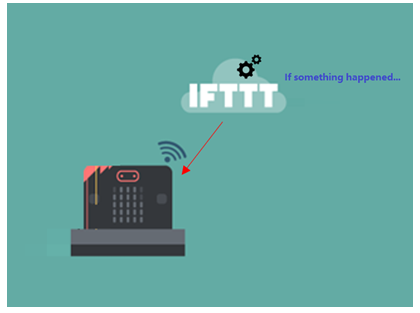
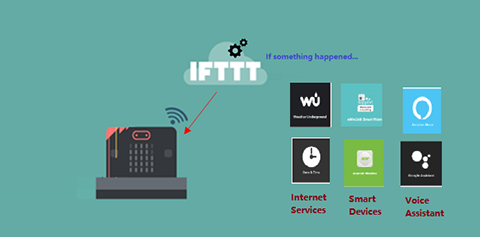
update ch4

diff --git a/docs/smartcity/chapter4.md b/docs/smartcity/chapter4.md
@@ -5,26 +5,13 @@ In this chapter, you will know how to control micro:bit from the IFTTT cloud. On
 
 ![auto_fit](images/Ch4/Ch4_2_intro.png)<P>
 
-The below example you may apply for:
+In practice, the below example you may apply for:
 * Turn the street light on at 6pm and off after 6am everyday
 * Turn on the water pump every day at 06:00 for 2 second
 * If the forecast weather is rain, open the umbrella
 * Use voice command to control robot actions
 * When the door is closed, LED is turned on.
 
-
-## Know the concept
-<HR>
-<span id="subtitle" ><u>A. Trigger Part</u></span><P>
-
-The below are the most common internet service or connected device that can control back the micro:bit. Or course, there are tons of the connected things/services you can control micro:bit.<P>
-
-![auto_fit](images/Ch4/Ch4_2_ifttt2.png)<P>
-
-<span id="subtitle" ><u>B. Action Part</u></span><P>
-With connection with different services in IFTTT, you can design your own applet with micro:bit projects using “if this then that (micro:bit)”. <P>
-
-![auto_fit](images/Ch4/Ch4_2_ifttt3.png)<P>
 
 ## Scenario Example
 <HR>
@@ -40,10 +27,6 @@ In this example, there are 2 parts involved.
 * In part 2, set the rule on IFTTT applet. If the time is 6 pm, set the command “light_on”
 
 ![auto_fit](images/Ch4/Ch4_2_ifttt0.png)<P>
-
-On IFTTT configuration, set the below. We can set the rule on the IFTTT, if something happened like time at 6:00 p.m., we can do the corresponding action.<P>
-
-![auto_fit](images/Ch4/Ch4_2_ifttt1.png)<P>
 
 
 ## Part 1: Coding
@@ -81,8 +64,8 @@ After connected to the WiFI, the connection to the server will be done automatic
 
 * Snap the `on WiFi received` handler to stage
 * Do the `if-condition statement` to the variable `WAN_Command`
-* If `Wan_command` “Light_on” is received, white LED will be turned on (intensity:1023)
-* If `Wan_command` “Light_off” is received, white LED will be turned off (intensity:0)
+* If `Wan_command` “light_on” is received, white LED will be turned on (intensity:1023)
+* If `Wan_command` “light_off” is received, white LED will be turned off (intensity:0)
 
 Attention: Please be aware that the **P** is in capital letter.
 
@@ -128,45 +111,37 @@ Open your browser , go to [https://ifttt.com/](https://ifttt.com/). Register you
 On the top right menu, click “Create” > “Applets”<BR><P>
 ![auto_fit](images/Ch4/Ch4_ifttt2.png)<P>
 
-<span id="subtitle" >Step 3: Create the <u>trigger</u> of Applets</span><BR><P>
-Create a trigger for the applet<BR><P>
-* Select “This” > Choose service “Date & Time”
-* Choose trigger “Every day at” 
-* Select the time (e.g. 06PM, 00 Minutes; it means every day at 6pm) and click “Create trigger”.
-![auto_fit](images/Ch4/Ch4_ifttt3.png)<P>
+<span id="subtitle" >Step 3: Set the Rules</span><BR><P>
+On IFTTT configuration, set the below. We can set the rule on the IFTTT, if something happened like time at 6:00 p.m., we can do the corresponding action.<P>
 
-
-<span id="subtitle" >Step 4: Create the action of Applet</span><BR><P>
-Create an action for the applet
-* Select “That”, choose action service “Smarthon”
-* Choose action “Control Command”
-* Input your `Device ID` (e.g.0xa3240ac45916) and control command (e.g. Light_On). Then click “Create action”.
-![auto_fit](images/Ch4/Ch4_ifttt4.png)<P>
-
-<span id="subtitle" >Step 5: Review the configuration</span><BR><P>
-Review your applet, then click “Finish ”. <BR><P>
-
-<span id="subtitle" >Step 6: Ready to use</span><BR><P>
-After, the applet connection has been created it will show “connected”. <BR><P>
-The light will be turned on at 6pm every day!<BR><P>
-![auto_fit](images/Ch4/Ch4_ifttt5.png)<P>
-<P>
-<HR>
-<H3><U>Advanced Usage(with value):</U></H3>
-
-<span id="subtitle" >Step 1: Create the applet</span><BR><P>
-You can send WAN command with value in IFTTT. In this example, click “That” to select the action<BR><P>
 ![auto_fit](images/Ch4/Ch4_2_ifttt1.png)<P>
 
-        
-<span id="subtitle" >Step 2: Setup the applet</span><BR><P>
-Create an action for the applet
-* Select “That”, choose action service “Smarthon”
-* Choose action “Control Command (with value)”
-* Input your Device ID (e.g. 0xfa240ac45917), control command (e.g. LightValue) and Value (e.g. 600). Then click “Create action”.
-![auto_fit](images/Ch4/Ch4_2_ifttt2.png)<P>
- 
- 
+<span id="subtitle" ><u>A. Trigger Part</u></span><P>
+![auto_fit](images/Ch4/Ch4_2_ifttt1_1.png)<P>
+1.Search "Date" and select "Date & Time"<P>
+![auto_fit](images/Ch4/Ch4_2_ifttt1_2.png)<P>
+2.Finish the time setting.<P>
+* Choose trigger "Every day at"
+* Select the time (e.g. 06PM, 00Minutes; it menas every day at 6pm) and click "Create trigger"
+
+![auto_fit](images/Ch4/Ch4_2_ifttt1_3.png)<P>
+
+<span id="subtitle" ><u>B. Action Part</u></span><P>
+
+![auto_fit](images/Ch4/Ch4_2_ifttt1_4.png)<P>
+1.Search “micro:bit” and you will see “Smarthon IoT(micro:bit)”<P>
+![auto_fit](images/Ch4/Ch4_2_ifttt1_6.png)<P>
+
+2.Finish the mirco:bit setting.
+* Choose action "Control Command"
+* Input your `Device ID` (e.g. 0xa3240ac45916) and `control command` (e.g. light_on). Then click "Create action"
+![auto_fit](images/Ch4/Ch4_2_ifttt1_7.png)<P>
+
+
+<span id="subtitle" ><u>Optional</u></span><P>
+If you need to send the command with value to the micro:bit<BR>
+
+![auto_fit](images/Ch4/Ch4_2_ifttt1_8.png)<P>
 
 
 ## Result
@@ -176,7 +151,7 @@ Create an action for the applet
 
 After connected to WiFi, micro:bit will connect to control server and keep listening to the WAN command
 
-* Every day at 6pm, clock will trigger IFTTT to send out micro:bit WAN command “Light_On”
+* Every day at 6pm, clock will trigger IFTTT to send out micro:bit WAN command “light_On”
 * Micro:bit will recevie the command
 * The LED on P0 will be turned on.
 ![auto_fit](images/Ch4/Ch4_2_result.png)<P>
